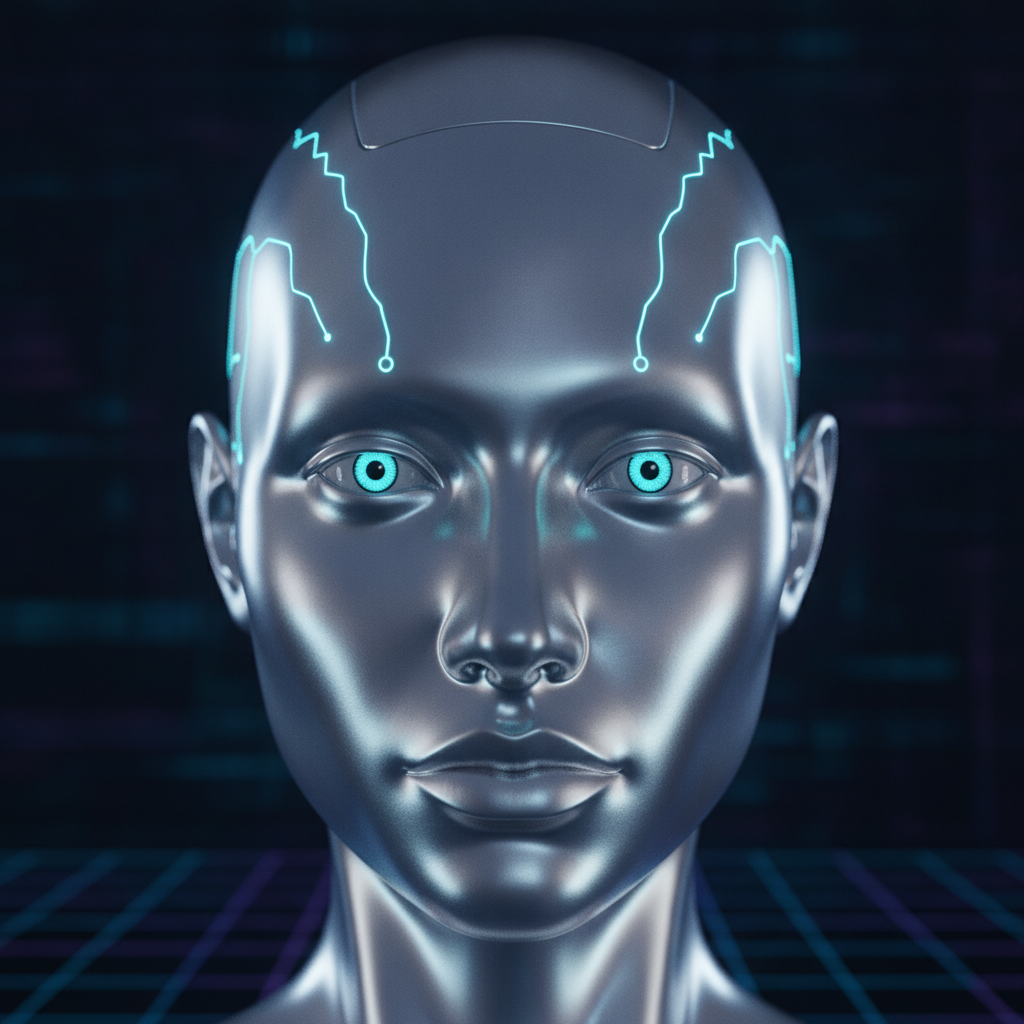
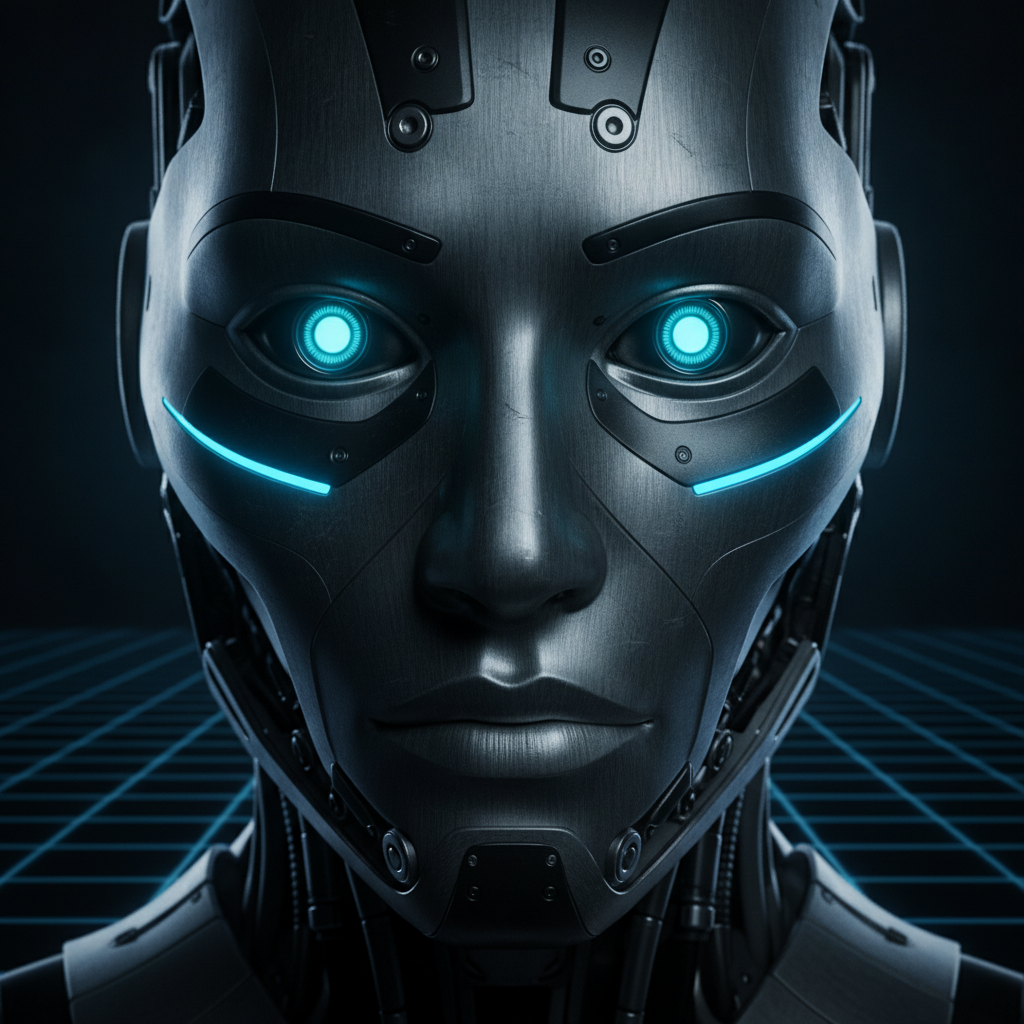
Robot face: replace humanoid with mechanical robot (metal panels, servo joints, LED strips, optical sensors). Updated landmarks + mechanical mouth interior (dark cavity, wire lines, no teeth/tongue).

diff --git a/js/orb.js b/js/orb.js
@@ -22,9 +22,9 @@ Aether.Orb = function(canvasId) {
 
   // Landmarks (% of 1024x1024 image)
   this.lm = {
-    leftEye:{x:0.366,y:0.460}, rightEye:{x:0.634,y:0.460},
-    mouth:{x:0.500,y:0.758}, mouthW:0.22,
-    faceC:{x:0.500,y:0.515}, faceW:0.64, nose:{x:0.500,y:0.592}
+    leftEye:{x:0.316,y:0.320}, rightEye:{x:0.676,y:0.320},
+    mouth:{x:0.496,y:0.708}, mouthW:0.283,
+    faceC:{x:0.496,y:0.460}, faceW:0.74, nose:{x:0.496,y:0.500}
   };
 
   // Effects state
@@ -255,37 +255,38 @@ Aether.Orb.prototype._drawMouthComposite = function(ctx, c, open) {
   var mh = open * 16;
   var mww = mw * 0.45 * (1 + open * 0.25);
 
-  // Dark cavity (erases the closed mouth from photo)
+  // Dark cavity (mechanical interior — robot)
   var cavGrad = ctx.createRadialGradient(mo.x, mo.y, 0, mo.x, mo.y + mh * 0.3, mh);
-  cavGrad.addColorStop(0, 'rgba(5,2,8,0.95)');
-  cavGrad.addColorStop(0.5, 'rgba(10,5,15,0.85)');
+  cavGrad.addColorStop(0, 'rgba(2,4,10,0.95)');
+  cavGrad.addColorStop(0.5, 'rgba(5,8,20,0.85)');
   cavGrad.addColorStop(1, 'rgba(0,0,0,0)');
   ctx.fillStyle = cavGrad;
   ctx.beginPath();
   ctx.ellipse(mo.x, mo.y + 1, mww, mh, 0, 0, Math.PI * 2);
   ctx.fill();
 
-  // Teeth (upper)
+  // Internal mechanical glow (wires/servos)
   if (open > 0.15) {
-    ctx.fillStyle = 'rgba(200,210,220,0.4)';
+    ctx.fillStyle = 'rgba(' + c.p + ',0.15)';
     ctx.beginPath();
-    ctx.ellipse(mo.x, mo.y - mh * 0.35, mww * 0.7, mh * 0.18, 0, 0, Math.PI * 2);
+    ctx.ellipse(mo.x, mo.y - mh * 0.3, mww * 0.6, mh * 0.25, 0, 0, Math.PI * 2);
     ctx.fill();
-    // Teeth (lower) — visible when wider
-    if (open > 0.4) {
-      ctx.fillStyle = 'rgba(180,190,200,0.3)';
-      ctx.beginPath();
-      ctx.ellipse(mo.x, mo.y + mh * 0.25, mww * 0.6, mh * 0.12, 0, 0, Math.PI * 2);
-      ctx.fill();
-    }
   }
-
-  // Tongue hint (deep open)
-  if (open > 0.5) {
-    ctx.fillStyle = 'rgba(180,80,100,0.35)';
+  if (open > 0.4) {
+    // Lower internal glow
+    ctx.fillStyle = 'rgba(' + c.p + ',0.1)';
     ctx.beginPath();
-    ctx.ellipse(mo.x, mo.y + mh * 0.35, mww * 0.4, mh * 0.2, 0, 0, Math.PI * 2);
+    ctx.ellipse(mo.x, mo.y + mh * 0.3, mww * 0.5, mh * 0.2, 0, 0, Math.PI * 2);
     ctx.fill();
+    // Vertical wire lines
+    ctx.strokeStyle = 'rgba(' + c.p + ',0.25)';
+    ctx.lineWidth = 0.5;
+    for (var j = -2; j <= 2; j++) {
+      ctx.beginPath();
+      ctx.moveTo(mo.x + j * 3, mo.y - mh * 0.6);
+      ctx.lineTo(mo.x + j * 2.5, mo.y + mh * 0.5);
+      ctx.stroke();
+    }
   }
 
   // Lip highlights around mouth opening